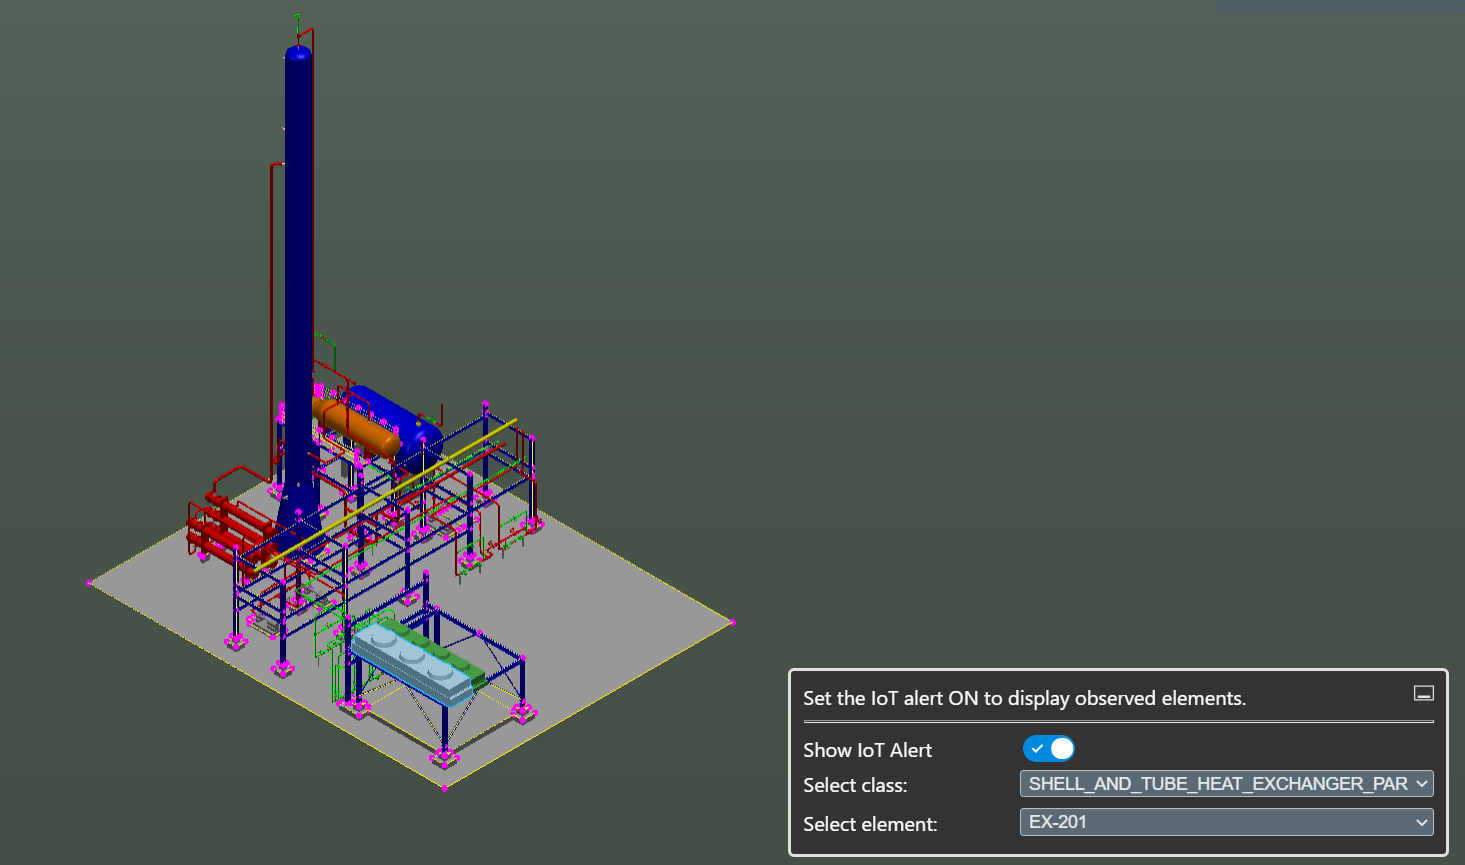
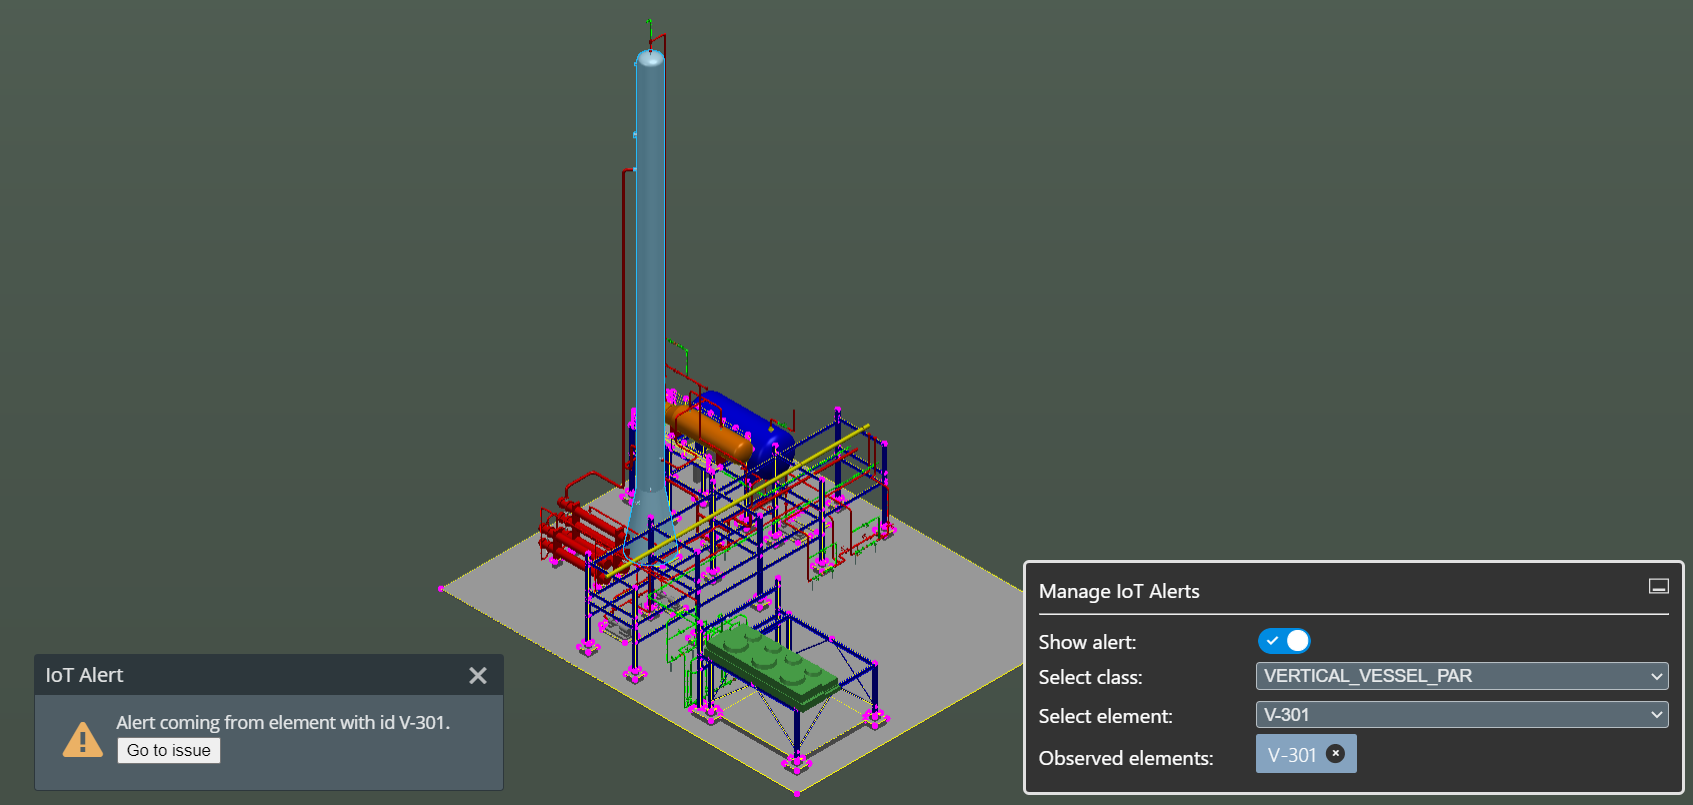
Modified location of message box.

Changed region(s): [[0.0, 0.0311, 1.0, 0.9938]]

diff --git a/src/frontend-samples/iot-alert-sample/MessageBox.tsx b/src/frontend-samples/iot-alert-sample/MessageBox.tsx
@@ -26,11 +26,6 @@ export class MessageBox extends React.Component<IotAlertProps, IOTAlertState> {
     };
   }
 
-  // user clicked the dialog button
-  public closeAlert() {
-    this._onCancel();
-  }
-
   // private deleteMessageBox = setTimeout(() => {
   //   if (!IotAlertApp.getTags().includes(this.props.id)) {
   //     this._onCancel();
@@ -45,6 +40,8 @@ export class MessageBox extends React.Component<IotAlertProps, IOTAlertState> {
   public render(): JSX.Element {
     const width = 376;
     const height = 110;
+    const y = window.innerHeight - height - 3;
+    const x = (window.innerWidth - width) / 6;
     return (
       <Dialog
         title={"IoT Alert"}
@@ -56,6 +53,7 @@ export class MessageBox extends React.Component<IotAlertProps, IOTAlertState> {
         onClose={() => this._onCancel()}
         onEscape={() => this._onCancel()}
         width={width} height={height}
+        x={x} y={y}
       >
         <MessageContainer severity={MessageSeverity.Warning}>
           {this.renderContent()}

diff --git a/src/frontend-samples/iot-alert-sample/IotAlert.scss b/src/frontend-samples/iot-alert-sample/IotAlert.scss
@@ -12,15 +12,16 @@
 
 .input-tag__tags li {
   align-items: center;
-  background: #85a3bf;
-  border-radius: 2px;
+  background: #626d77;
+  border-radius: 20px;
   color: white;
   display: flex;
   font-weight: 300;
   list-style: none;
-  margin-bottom: 5px;
-  margin-right: 5px;
+  margin-bottom: 4px;
+  margin-right: 4px;
   padding: 5px 10px;
+  font-size: small;
 }
 
 .input-tag__tags li button {

diff --git a/src/frontend-samples/iot-alert-sample/IotAlertUI.tsx b/src/frontend-samples/iot-alert-sample/IotAlertUI.tsx
@@ -10,7 +10,6 @@ import IotAlertApp, { ClearOverrideAction, OverrideAction } from "./IotAlertApp"
 import { ControlPane } from "Components/ControlPane/ControlPane";
 import { IModelConnection } from "@bentley/imodeljs-frontend";
 import { ElementSelector } from "./ElementSelector";
-import { MessageBox } from "./MessageBox";
 
 /** React state of the Sample component */
 interface IotAlertState {

diff --git a/src/frontend-samples/iot-alert-sample/IotAlertApp.tsx b/src/frontend-samples/iot-alert-sample/IotAlertApp.tsx
@@ -223,5 +223,3 @@ export class ClearOverrideAction extends EmphasizeActionBase {
     return true;
   }
 }
-
-
